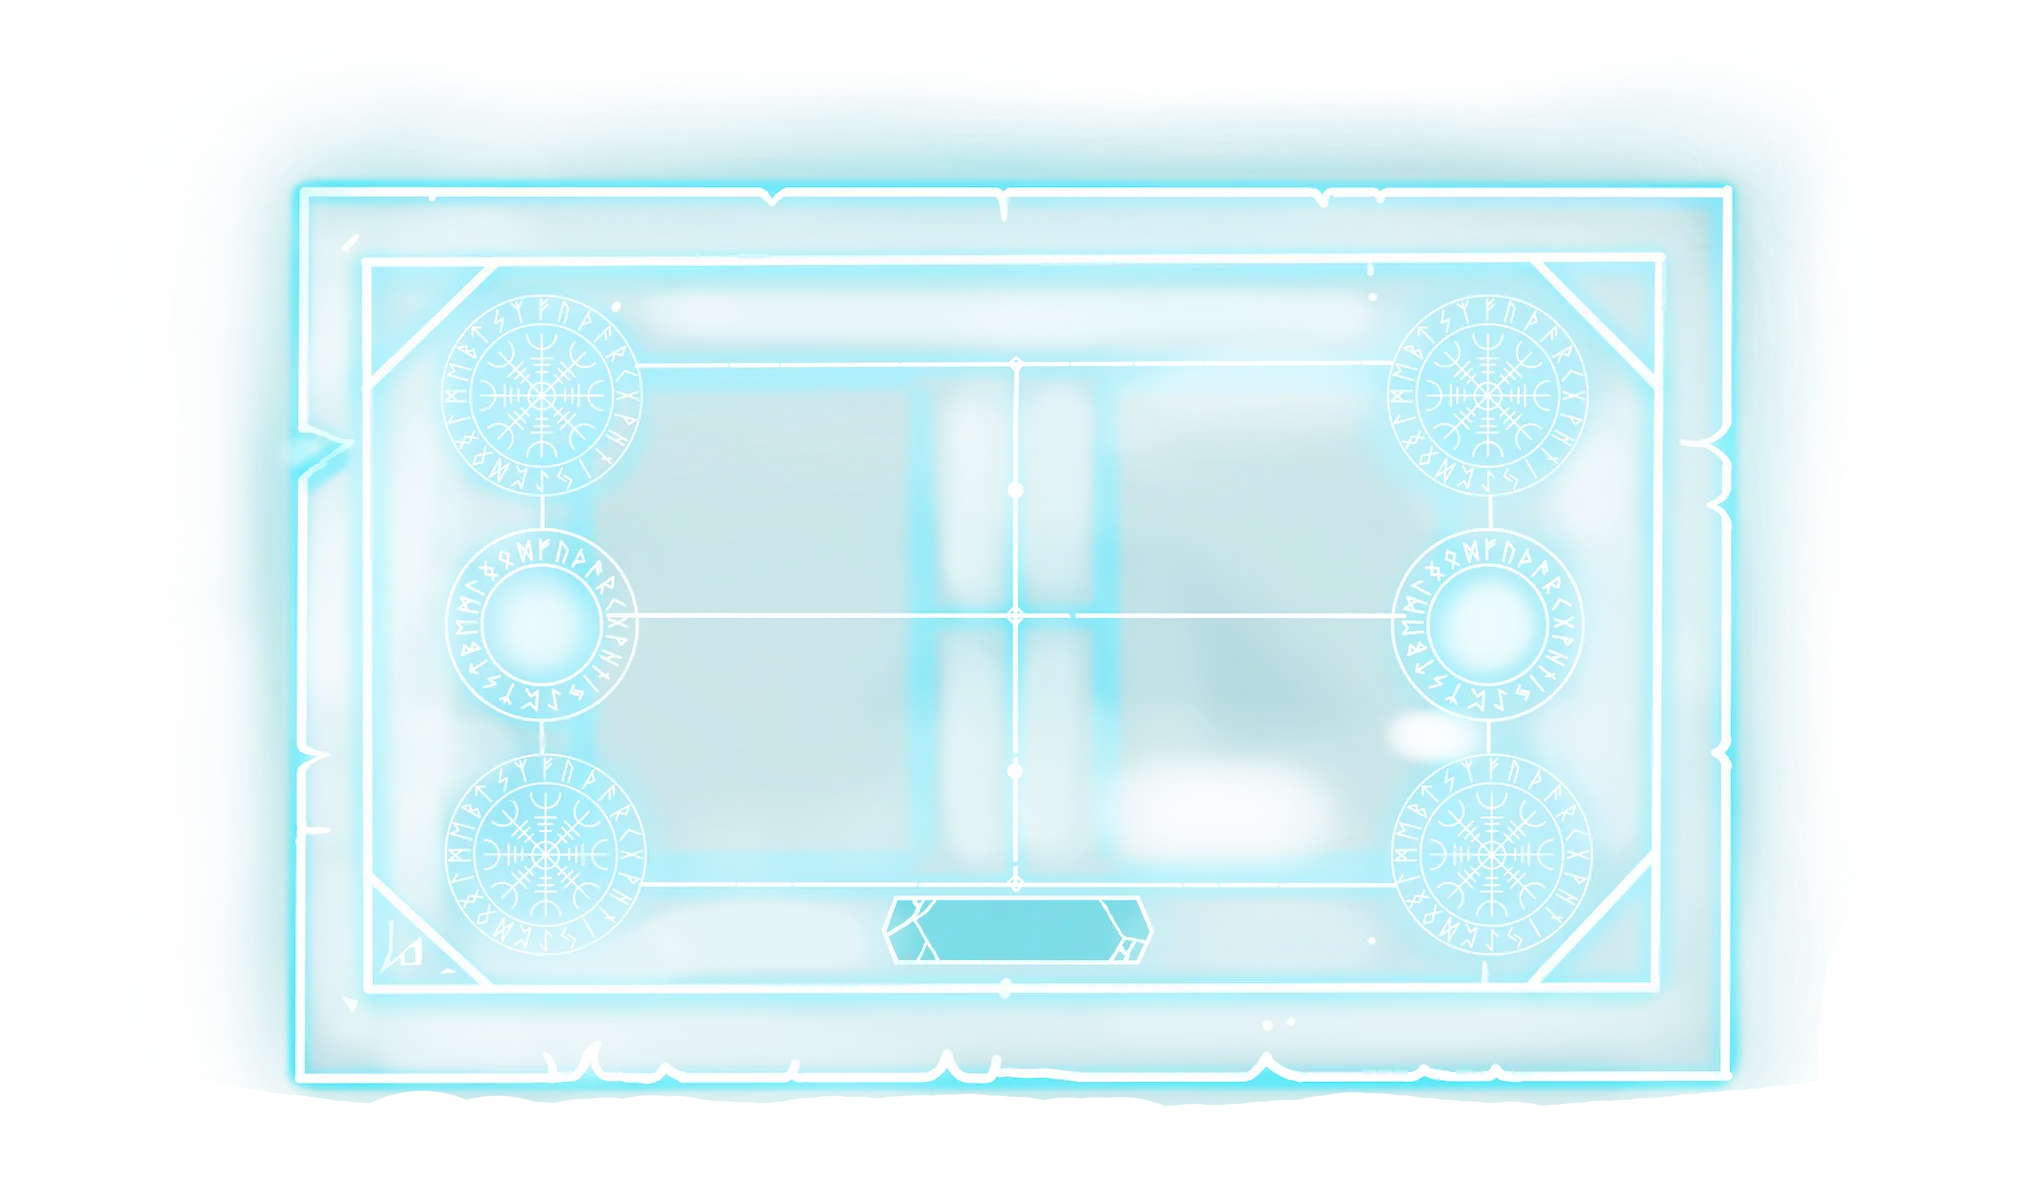
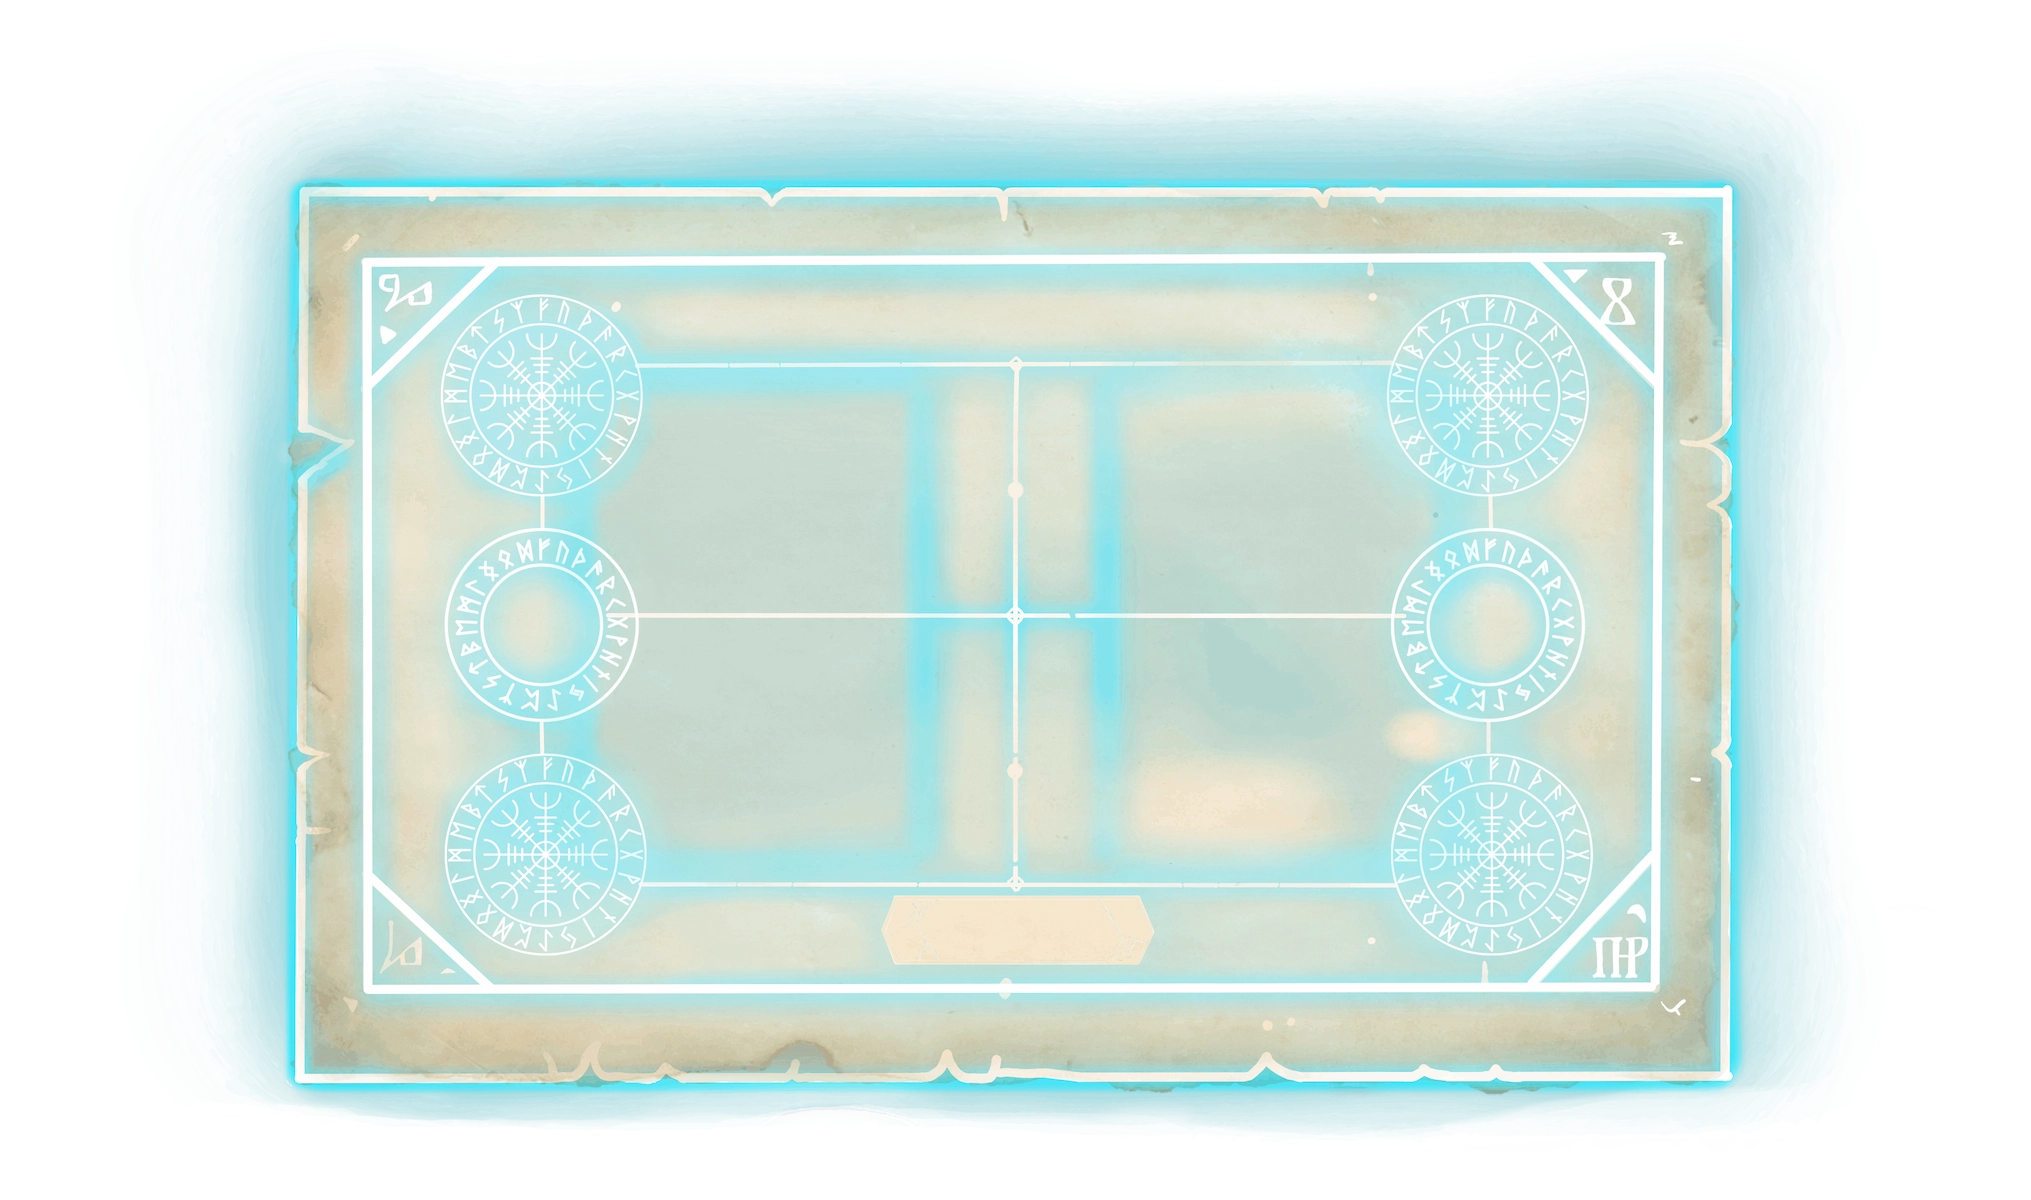
update craft btn

diff --git a/frontend/pages/CraftNFT.tsx b/frontend/pages/CraftNFT.tsx
@@ -11,6 +11,8 @@ import { useQuery, useQueryClient } from "@tanstack/react-query";
 import { useGetCollections } from "@/hooks/useGetCollections";
 import { GetCollectionDataResponse } from "@aptos-labs/ts-sdk";
 import { Header } from "@/components/Header";
+import CraftBtnActive from "@/assets/img/craft_btn_active.png";
+import CraftBtnInactive from "@/assets/img/craft_btn_inactive.png";
 
 interface NFT {
   id: string;
@@ -153,29 +155,37 @@ export function CraftNFT() {
     }
   };
 
+  const isSubmitDisabled = isUploading || !account || !selectedNFT1 || !selectedNFT2;
+
   return (
     <>
       <Header />
 
       <div className="container mx-auto p-4 pb-16">
-        <h2 className="text-3xl mb-8 text-center font-bold">Combine Your NFTs</h2>
-        <div className="bg-summoningBoard bg-center bg-[length:120%] bg-no-repeat relative before:content-[''] before:block before:pt-[59%]">
-          <div className="absolute w-full h-full top-0 left-0 pt-[16.5%]">
+        <h2 className="text-3xl text-center font-bold">Combine Your NFTs</h2>
+        <div className="bg-summoningBoard bg-center bg-[length:120%] bg-no-repeat relative before:content-[''] before:block before:pt-[70.8%] lg:mt-[-3rem] md:mt-[-2rem] sm:mt-[-1rem]">
+          <div className="absolute w-full h-full top-0 left-0 pt-[22.4%]">
             <div className="flex justify-around items-start max-w-[52rem] mx-auto w-[61%]">
               <Area selectedNFT={selectedNFT1} onClick={() => handleAreaClick("area1")} type="main" />
               <Area selectedNFT={selectedNFT2} onClick={() => handleAreaClick("area2")} type="secondary" />
             </div>
 
             {/* Submit Button */}
-            <div className="text-center pt-[1.8%] h-[14%]">
+            <div className="text-center pt-[1.65%]">
               <Button
                 variant="plain"
                 size="plain"
                 onClick={handleSubmit}
-                disabled={isUploading || !account || !selectedNFT1 || !selectedNFT2}
-                className="px-[6.8%] h-full text-vw16 font-bold"
+                disabled={isSubmitDisabled}
+                className="relative disabled:opacity-100 drop-shadow-craftBtn w-[16.5%]"
               >
-                Craft
+                <img src={CraftBtnInactive} alt="CRAFT NFT" width={273} />
+                <img
+                  src={CraftBtnActive}
+                  alt=""
+                  width={273}
+                  className={`absolute w-full h-full top-0 left-0 transition-opacity ${isSubmitDisabled ? "opacity-0" : ""}`}
+                />
               </Button>
             </div>
 

diff --git a/tailwind.config.js b/tailwind.config.js
@@ -113,7 +113,8 @@ module.exports = {
         areaCard: `url('${IMG_BASE_PATH}/back.png')`,
       },
       dropShadow: {
-        areaCard: "5px 8px 4px rgba(0, 0, 0, 0.7)",
+        areaCard: "5px 8px 4px rgba(0, 0, 0, 0.6)",
+        craftBtn: "3px 4px 4px rgba(0, 0, 0, 0.5)",
       },
     },
   },
